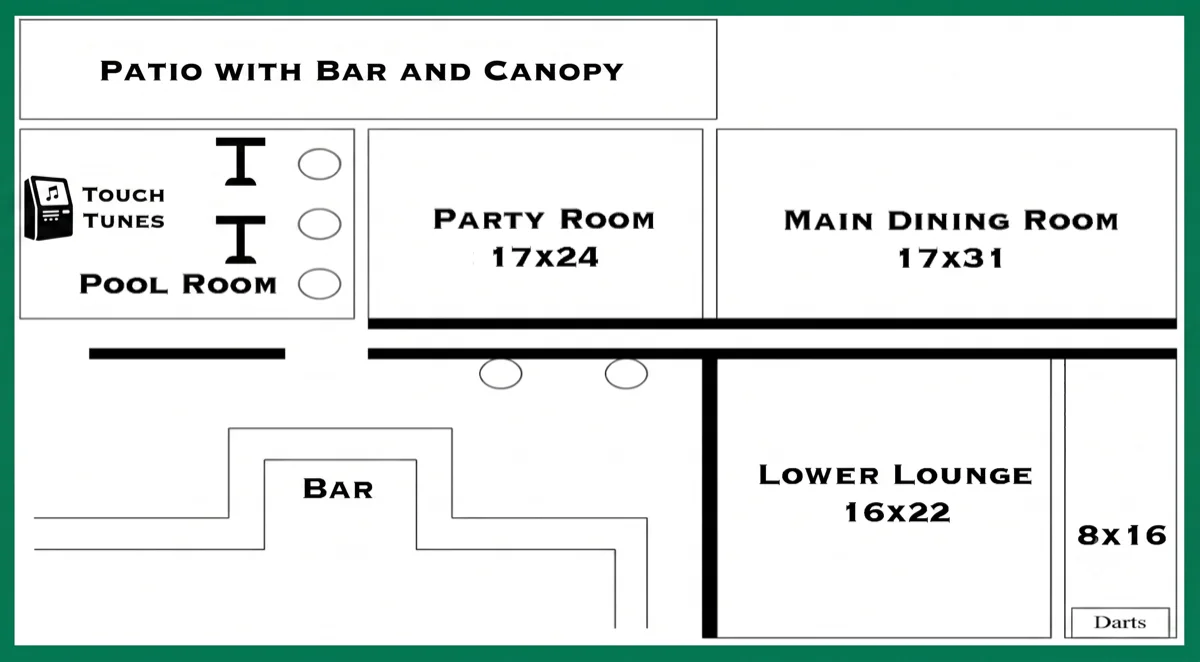
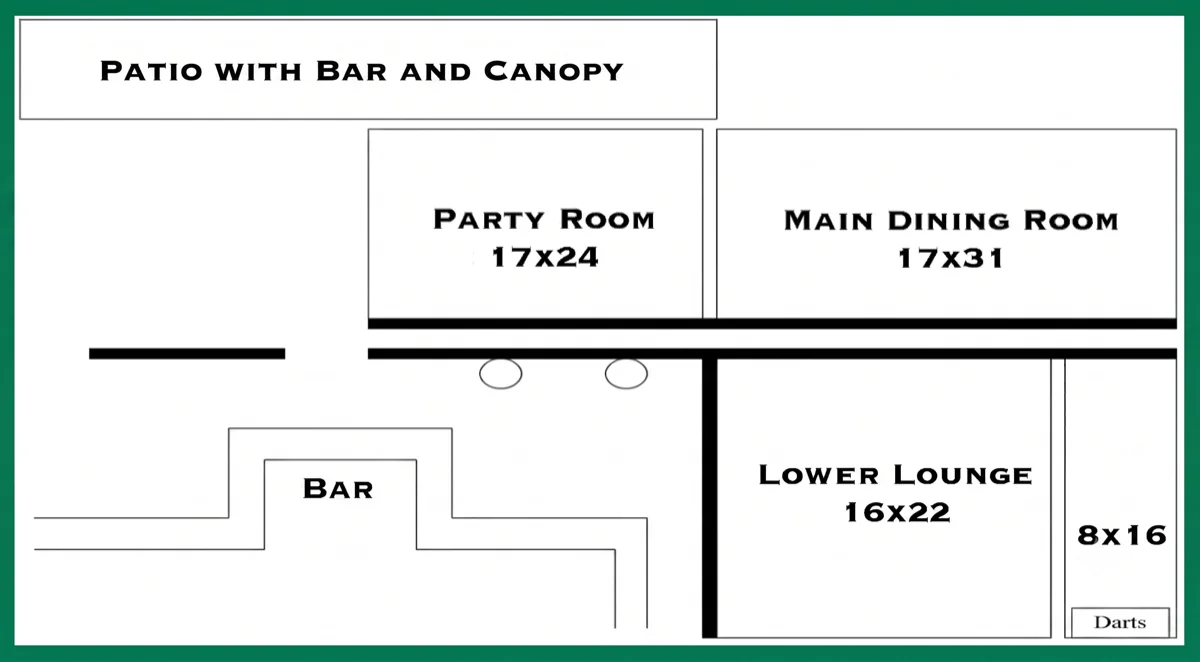
Remove pool room from floor plan image
Edited out of the graphic; metadata and alt text updated to match.

Changed region(s): [[0.0, 0.1813, 0.3083, 0.4834], [0.0, 0.2417, 0.1542, 0.3625], [0.2467, 0.3021, 0.3083, 0.3625]]

diff --git a/private-parties/index.html b/private-parties/index.html
@@ -103,7 +103,7 @@
       </div>
 
       <figure class="floor-plan fade-in">
-        <img src="../images/longleys-private-party-room-floor-plan-branford-ct.webp" alt="Floor plan of Longley's Restaurant in Branford CT showing the party room, main dining room, lower lounge, pool room, bar, and patio with bar and canopy" width="1200" height="662" loading="lazy">
+        <img src="../images/longleys-private-party-room-floor-plan-branford-ct.webp" alt="Floor plan of Longley's Restaurant in Branford CT showing the party room, main dining room, lower lounge, bar, and patio with bar and canopy" width="1200" height="662" loading="lazy">
         <figcaption>Our layout &mdash; party room, dining rooms, lower lounge, bar, and patio</figcaption>
       </figure>
     </div>